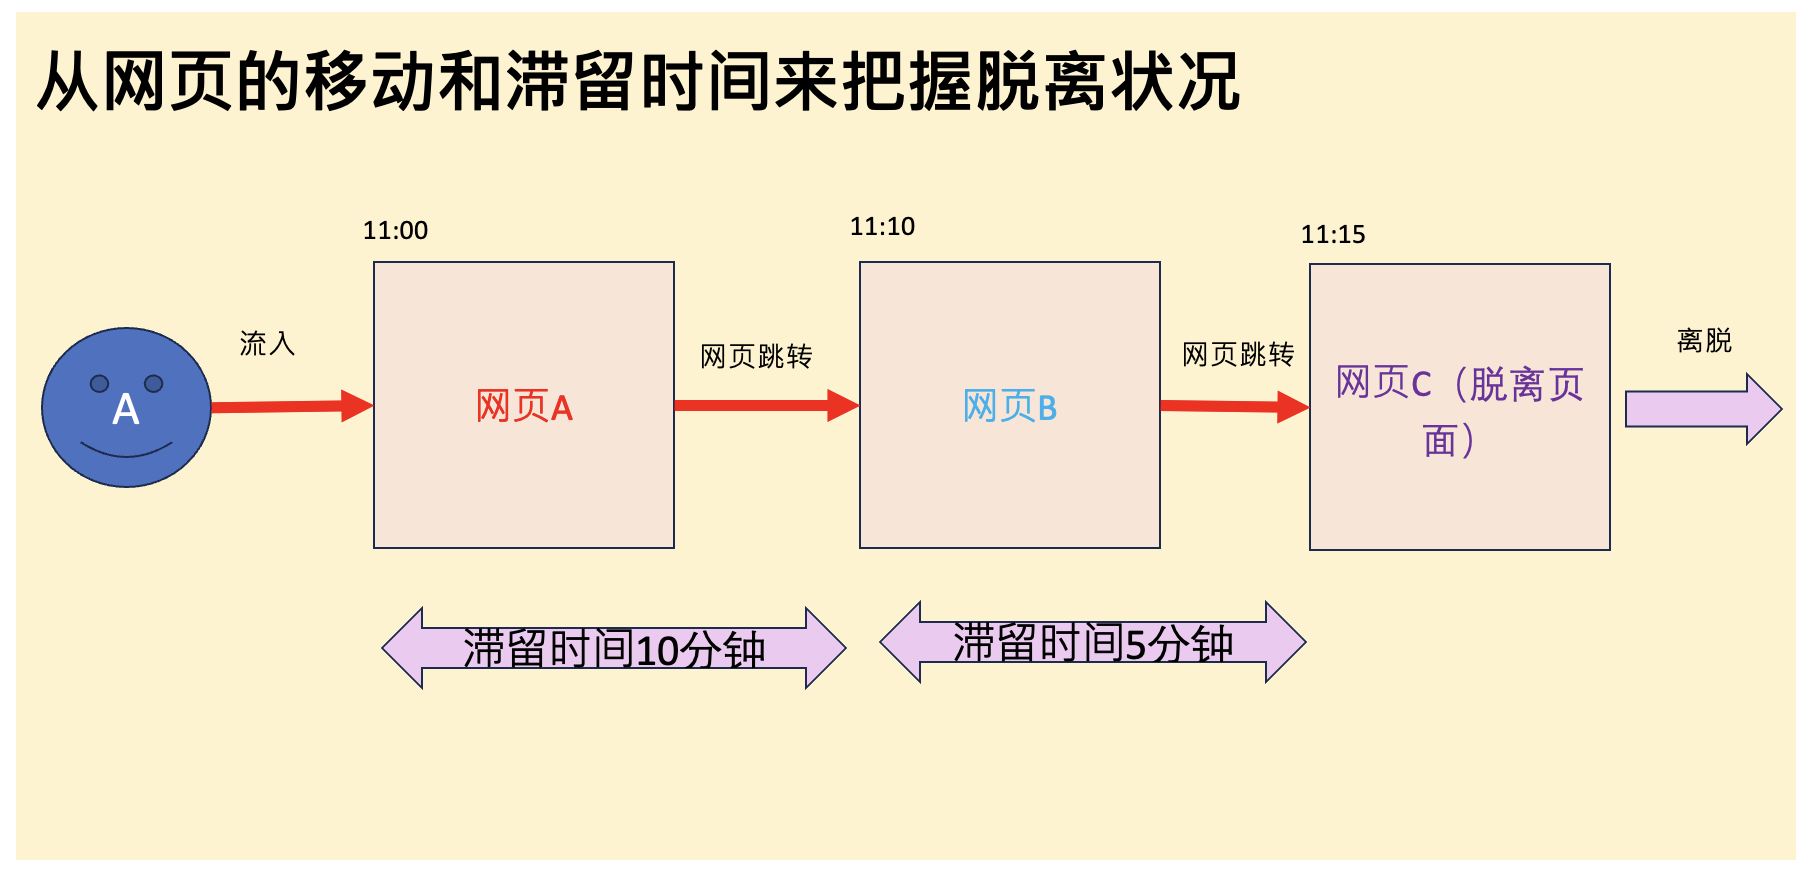
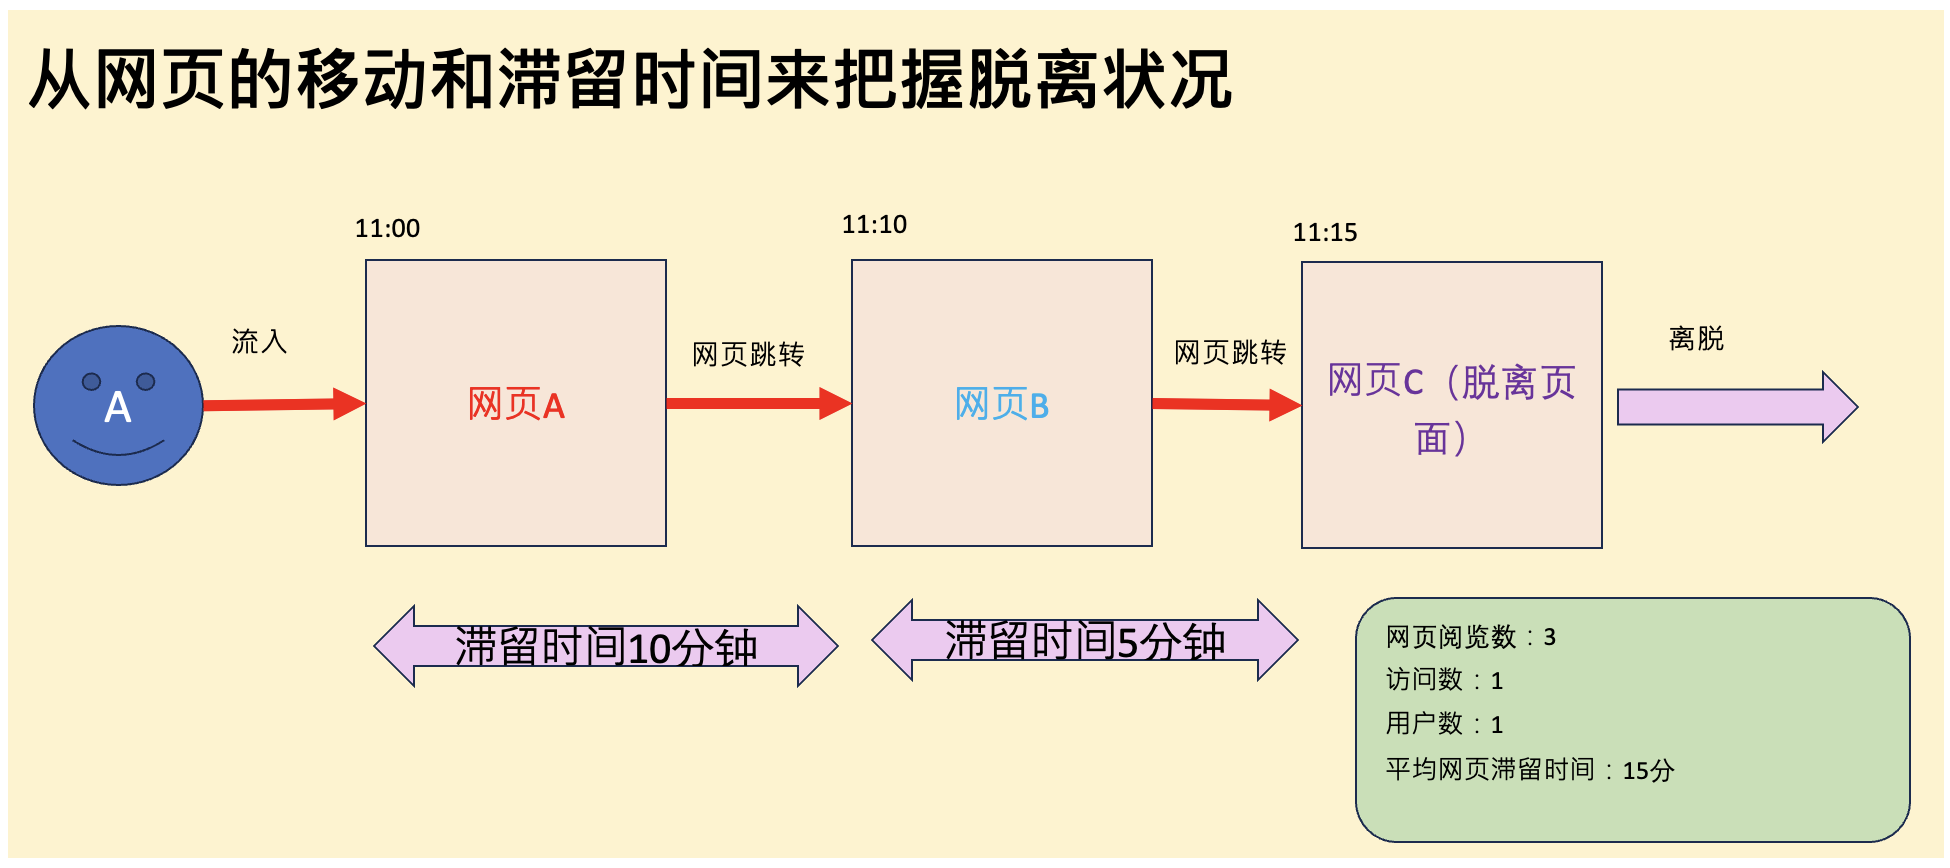
Web分析学习笔记更新 2024/1/7

diff --git a/Web analyst/Web解析/04_004_Web分析_回游篇2_分析与改善.md b/Web analyst/Web解析/04_004_Web分析_回游篇2_分析与改善.md
@@ -17,6 +17,6 @@
 
 ![客户行动开始到网页移动的把握3](https://github.com/Seankharisma/Data_Analysis_Project/blob/master/Web%20analyst/Web%E8%A7%A3%E6%9E%90/picture/user_site_trans_2.png)
 
-![网页内路径分析-Google analytics使用2](https://github.com/Seankharisma/Data_Analysis_Project/blob/master/Web%20analyst/Web%E8%A7%A3%E6%9E%90/picture/user_site_trans_2.png)
+![网页内路径分析-Google analytics使用2](https://github.com/Seankharisma/Data_Analysis_Project/blob/master/Web%20analyst/Web%E8%A7%A3%E6%9E%90/picture/google%20_analytics_web_insit_road2.png)
 
 <p></p>
